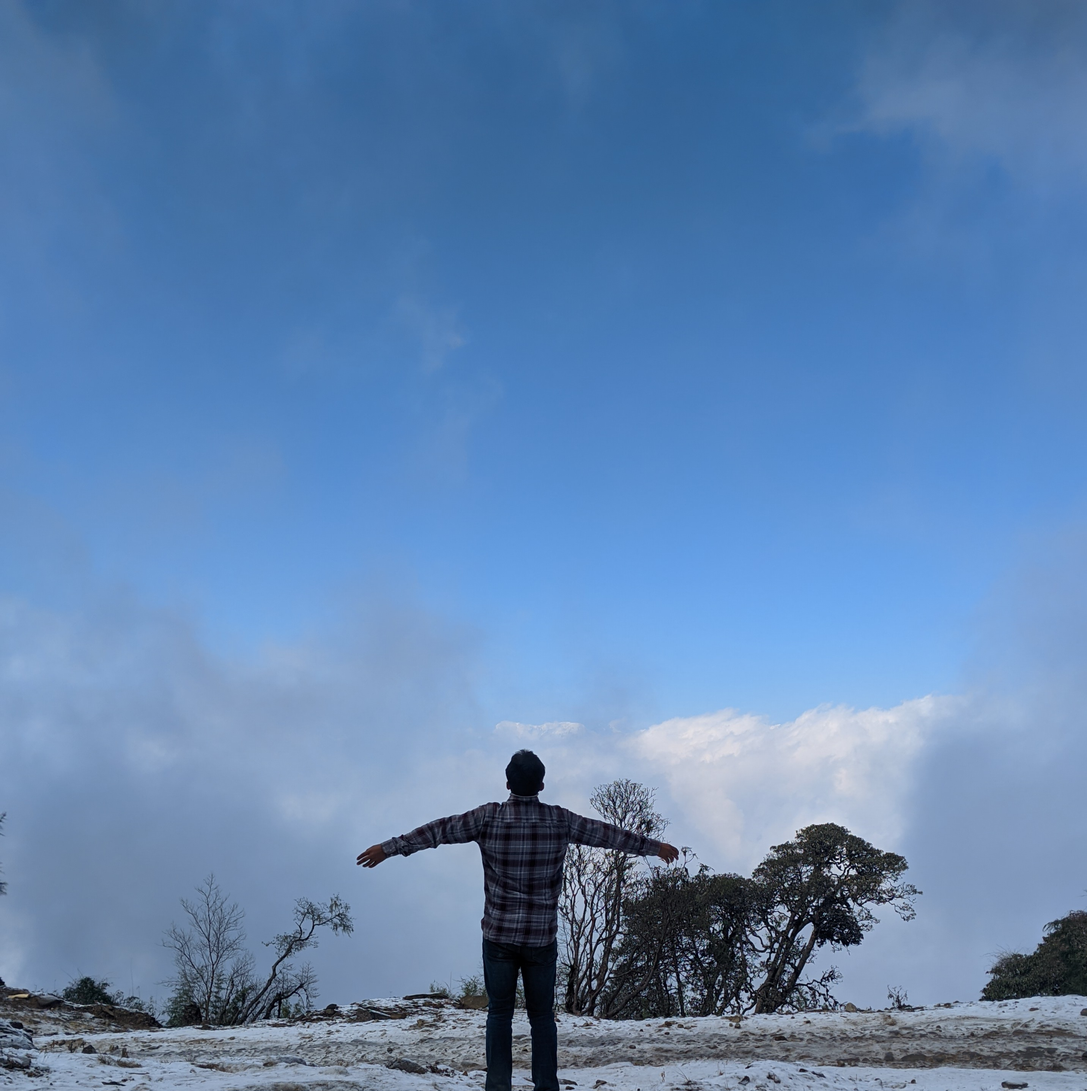
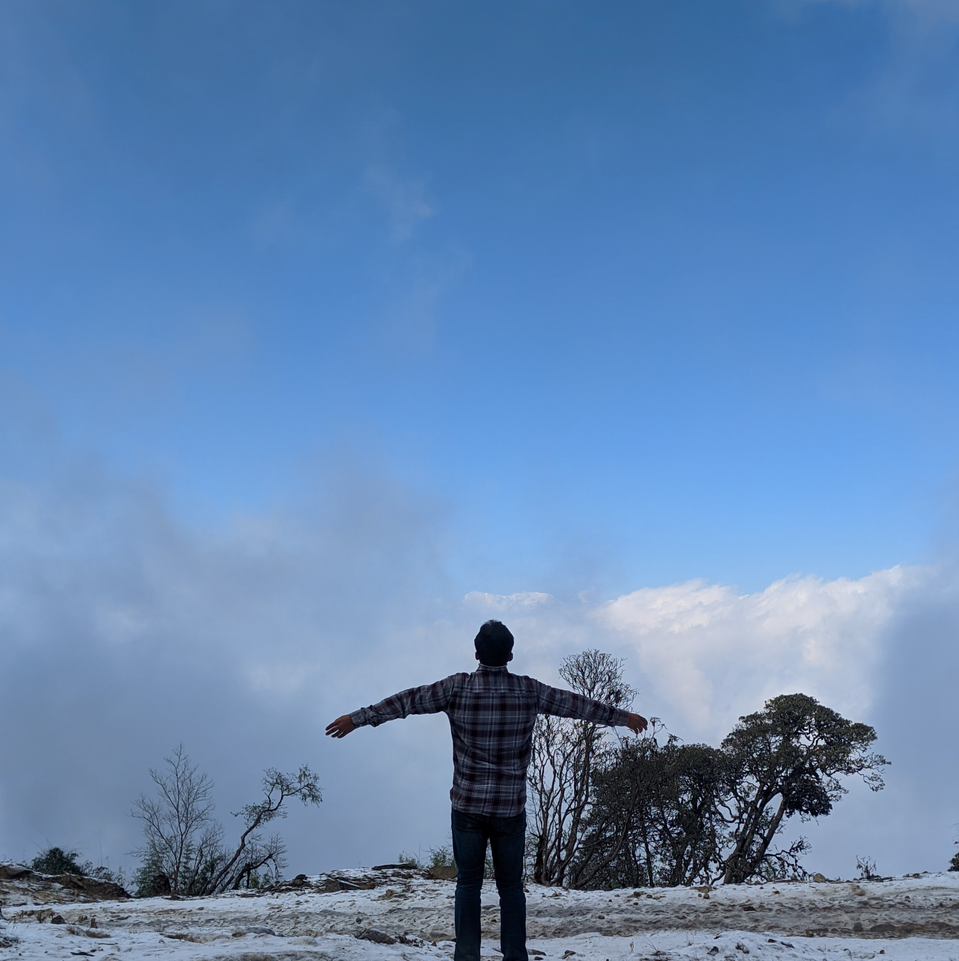
Modified

diff --git a/index.html b/index.html
@@ -17,13 +17,13 @@
 					<section class="banner style1 orient-left content-align-left image-position-right fullscreen onload-image-fade-in onload-content-fade-right">
 						<div class="content">
 							<h1>About Me & My Memories</h1>
-							<p class="major">Hi, My name is Aayam Pokharel. I'm currently studying at the +2 level. I'm a tech, music & bike enthusiast person.</p>
+							<p class="major">Hello! My name is Aayam Pokharel, and I'm thrilled to introduce myself to you. Currently, I'm pursuing my studies at the +2 level, where I am passionately exploring various subjects. I consider myself a tech enthusiast, constantly fascinated by the ever-evolving world of technology and its impact on our lives.</p>
 							<ul class="actions stacked">
 								<li><a href="#first" class="button big wide smooth-scroll-middle">Check Out My Stuffs</a></li>
 							</ul>
 						</div>
 						<div class="image">
-							<img src="images/banner.jpg" alt="" />
+							<img src="images/front.jpg" alt="" />
 						</div>
 					</section>
 
@@ -31,8 +31,9 @@
 					<section class="spotlight style1 orient-right content-align-left image-position-center onscroll-image-fade-in" id="first">
 						<div class="content">
 							<h2>Great Time</h2>
-							<p>I went on a short trek of Basntapur, Tinjure with my relatives and cousins. Our group found this boy playing & we had a slightly childish conversation with him. He was the son of the owner of a cafe/Bhatti. We stayed there for 1 hour and had a great conversation about the place and the people living there. There were only a few people living there, and they just said one thing that it is good to live in these places but there is no hospital nearby. So, if a patient is in an emergency then it will be very hard to survive here as no immediate help can be brought.</p>
+							<p>During a brief trek in Basantapur, Tinjure, I encountered a young boy engaged in play. Our group engaged in a lighthearted conversation with him. He happened to be the son of the cafe/Bhatti owner. Spending an hour there, we had an enriching discussion about the locality and its residents. The sparse population expressed their contentment with living in such a place, yet voiced concerns about the absence of nearby medical facilities. They highlighted the challenges of survival during emergencies due to the lack of immediate healthcare assistance.</p>
 							<ul class="actions stacked">
+								<li><a href="#second" class="button big wide smooth-scroll-middle">Scroll Down</a></li>
 							</ul>
 						</div>
 						<div class="image">
@@ -41,11 +42,12 @@
 					</section>
 
 				<!-- Three -->
-					<section class="spotlight style1 orient-left content-align-left image-position-center onscroll-image-fade-in">
+					<section class="spotlight style1 orient-left content-align-left image-position-center onscroll-image-fade-in" id="second">
 						<div class="content">
 							<h2>Snow Area</h2>
-							<p>As mentioned above, I went on a short trek to Basantapur, Tinjure. We took a rest and found this fascinating view of bulky rocks, clouds, and a religious rope. Snow was falling as the temperature too. I don't know how but my phone's battery drained faster than the iPhone's xD: It went from 70% to 30% in just 10-15 seconds. Temperature does affect the battery life/health. We saw different mountain ranges, which I forgot to capture but, it was unbelievable and i think the camera couldn't catch tme beauty that we saw with our naked eye</p>
+							<p>During my trip to Basantapur, Tinjure, we encountered a captivating sight of massive rocks, clouds, and a religious rope. As the snow fell and temperatures dropped, my phone mysteriously experienced a rapid battery drain, going from 70% to 30% within a mere 10-15 seconds. This incident served as a reminder of how temperature impacts battery life. While we witnessed breathtaking mountain ranges that I failed to capture on camera, the sheer beauty we beheld with our naked eyes was indescribable.</p>
 							<ul class="actions stacked">
+								<li><a href="#third" class="button big wide smooth-scroll-middle">Scroll Down</a></li>
 							</ul>
 						</div>
 						<div class="image">
@@ -54,10 +56,11 @@
 					</section>
 
 				<!-- Four -->
-					<section class="spotlight style1 orient-right content-align-left image-position-center onscroll-image-fade-in">
+					<section class="spotlight style1 orient-right content-align-left image-position-center onscroll-image-fade-in" id="third">
 						<div class="content">
 							<h2>Sun-Setting</h2>
-							<p>I have always been fascinated by cinematics and sunsets. It brings me great pleasure. I captured this photo recently with my phone. I remembered it was the day after the Moon, Jupiter, and venus were seen in a straight line in Nepal's area. The clouds were scattered in a unique shape towards the sun. it was clearly seen that the cloud covered the whole sky in a thin ratio.</p>
+							<p>
+								The allure of cinematic visuals and sunsets has always captivated me, providing immense joy. Recently, I seized the opportunity to capture a photo with my phone. It was a day following the remarkable alignment of the Moon, Jupiter, and Venus in Nepal's vicinity. The clouds assumed a distinct pattern, stretching towards the sun. They delicately blanketed the entire sky in a slender proportion, creating a mesmerizing spectacle.</p>
 							<br><p>As the sun begins to set,
 								The sky is painted with hues of red.
 								The world seems to slow down,
@@ -69,19 +72,34 @@
 								As the sun bids farewell to allure.</p>
 							
 							<ul class="actions stacked">
+								<li><a href="#fourth" class="button big wide smooth-scroll-middle">Scroll Down</a></li>
 							</ul>
 						</div>
 						<div class="image">
 							<img src="images/set.jpg" alt="" />
 						</div>
 					</section>
+					<section class="spotlight style1 orient-left content-align-left image-position-center onscroll-image-fade-in" id="fourth">
+						<div class="content">
+							<h2>Cloudy Day</h2>
+							<p>
+								On my way back from college, I encountered a captivating cloudy view that caught my attention. The sight was so compelling that I couldn't resist capturing it. The clouds painted the sky in an enchanting display, creating a scene worth preserving. It served as a reminder of the beauty that can be found even in the simplest moments, inspiring me to appreciate the wonders of nature.The interplay of light and shadow within the clouds evoked a sense of tranquility, casting a peaceful ambiance over the surroundings. It was a gentle reminder of the vastness and magnificence of the natural world, reminding me to cherish and find solace in its ever-changing splendor.</p>
+							<ul class="actions stacked">
+								<li><a href="#last" class="button big wide smooth-scroll-middle">Scroll To End</a></li>
+							</ul>
+						</div>
+						<div class="image">
+							<img src="images/cloudy.jpg" alt="" />
+						</div>
+					</section>
 
 				<!-- Five -->
-					<section class="wrapper style1 align-center">
+					<section class="wrapper style1 align-center" id="last">
 						<div class="inner">
 							<h2>Thank You For Visiting</h2>
 							<p>Wanna know more about me? You can visit my profile. to connect with me message on instagram</p>
 						</div>
+						
 						<!-- Footer -->
 					<footer class="wrapper style1 align-center">
 						<div class="inner">
